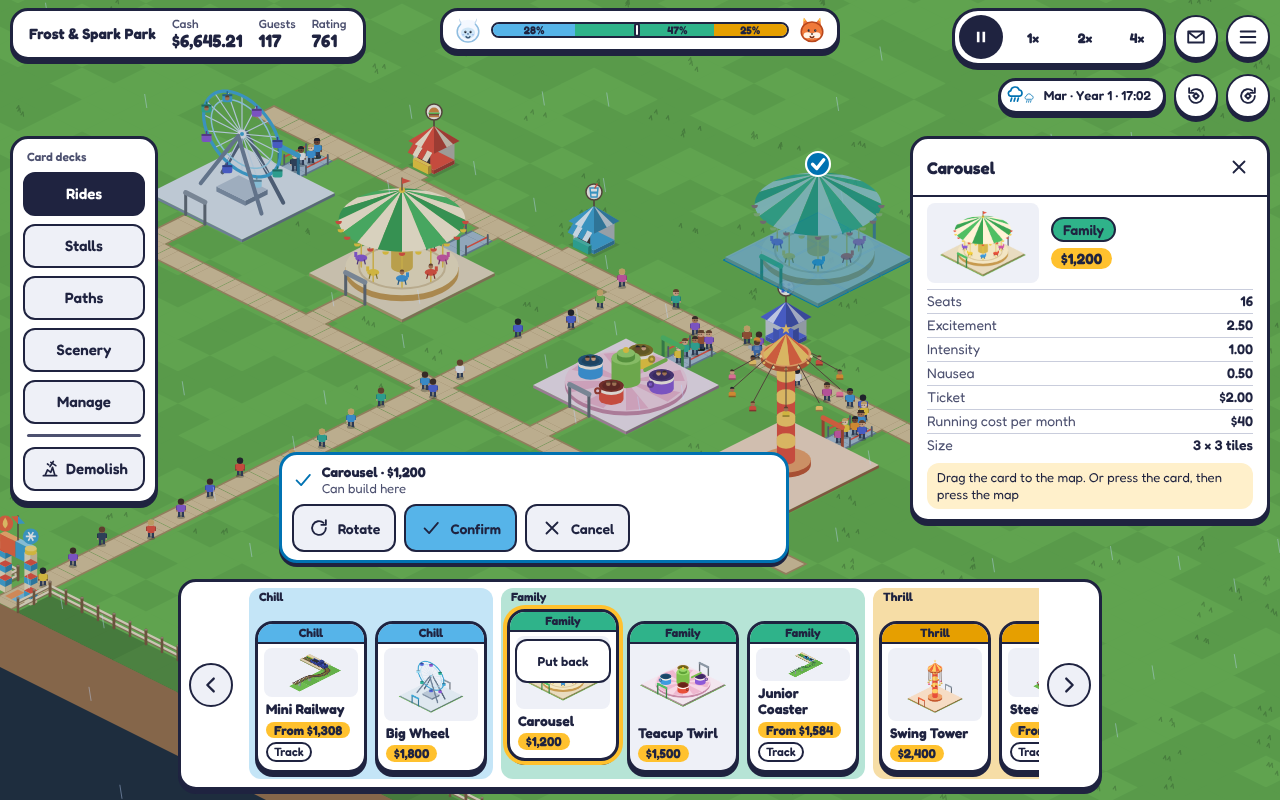
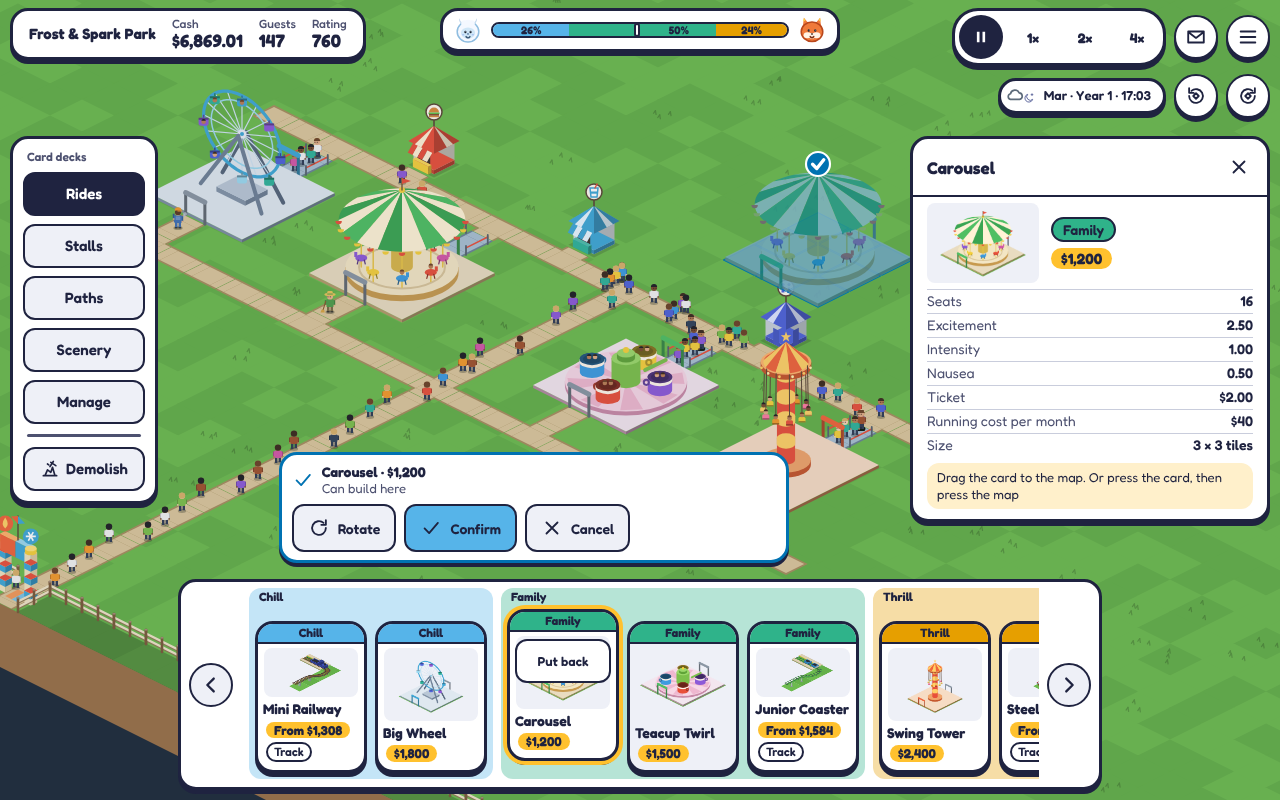
fix(ui): mood percentages grow with the text; desktop card names fit one line
The mood bar percentages and the desktop track follow calc(Npx * var(--ts, 1))
without the 125% cap; the label rule works in 100%-text px, so a number that
would not fit is hidden, never cut. The desktop ride and stall name has 5 px
side padding, so Junior Coaster fits one line, and the picture keeps at least
0.3 of the card height: a two-line name grows the deck instead of squashing
the picture.

Claude-Session: https://claude.ai/code/session_01Q5pHggx1eLkEH7W16KJFwP

diff --git a/src/styles/main.css b/src/styles/main.css
@@ -128,13 +128,13 @@ button { font: inherit; color: inherit; }
 .hud-name { font-weight: 700; font-size: calc(15px * var(--ts, 1)); max-width: calc(220px * var(--ts, 1)); overflow: hidden; text-overflow: ellipsis; white-space: nowrap; }
 .hud-mood { grid-area: mood; justify-self: stretch; min-width: 0; }
 /* Mood bar (Phase 7 §4.3): a 44 px plate (100% text) with Frost, three segments with a knot, and Spark. The lean text is
-   in the name and the title; the percentages show on the desktop only, at most 1.25 times their size. */
+   in the name and the title; the percentages show on the desktop only and grow with the text, as does the track. */
 .mood-bar { pointer-events: auto; display: flex; align-items: center; gap: 8px; width: 100%; min-height: 44px; padding: 2px 10px; color: var(--ink); background: var(--surface); border: var(--outline); border-radius: var(--radius-surface); box-shadow: var(--shadow); font: inherit; font-size: calc(12px * var(--ts, 1)); font-variant-numeric: tabular-nums; cursor: pointer; }
 .mood-bar:hover { background: var(--surface-3); }
 .mood-bar[aria-pressed='true'] { outline: 3px solid var(--ink); outline-offset: 1px; }
 .mood-face { display: inline-flex; flex: none; line-height: 0; }
-.mood-track { position: relative; display: flex; flex: 1 1 0; min-width: 0; height: calc(16px * min(var(--ts, 1), 1.25)); border-radius: 999px; overflow: hidden; background: var(--surface-2); border: var(--control-outline); }
-.mood-track .seg { display: flex; align-items: center; justify-content: center; flex-basis: 0; flex-grow: 0; min-width: 0; overflow: hidden; font-style: normal; font-weight: 700; font-size: calc(11px * min(var(--ts, 1), 1.25)); line-height: 1; color: var(--ink); white-space: nowrap; }
+.mood-track { position: relative; display: flex; flex: 1 1 0; min-width: 0; height: calc(16px * var(--ts, 1)); border-radius: 999px; overflow: hidden; background: var(--surface-2); border: var(--control-outline); }
+.mood-track .seg { display: flex; align-items: center; justify-content: center; flex-basis: 0; flex-grow: 0; min-width: 0; overflow: hidden; font-style: normal; font-weight: 700; font-size: calc(11px * var(--ts, 1)); line-height: 1; color: var(--ink); white-space: nowrap; }
 .mood-track .seg-num { display: inline-block; flex: none; }
 .mood-knot { position: absolute; top: -1px; bottom: -1px; width: 6px; margin-left: -3px; border-radius: 3px; background: var(--surface); border: 2px solid var(--ink); box-sizing: border-box; transition: left 0.4s ease; pointer-events: none; }
 .tc-rm .mood-knot { transition: none; }
@@ -379,16 +379,19 @@ button { font: inherit; color: inherit; }
 .content-card[data-zone='chill'] .card-band { background: var(--accent-chill); }
 .content-card[data-zone='family'] .card-band { background: var(--accent-family); }
 .content-card[data-zone='thrill'] .card-band { background: var(--accent-thrill); }
-/* The picture gives way to the text when the text needs more lines, down to a least height; below that the card grows. */
-.card-preview { flex: 1 1 0; min-height: calc(18px * var(--ts, 1)); margin: 0 6px; object-fit: contain; border-radius: 8px; background: var(--surface-2); }
-.content-card .card-name { flex: none; padding: 0 8px; font-weight: 700; font-size: calc(14px * var(--ts, 1)); line-height: 1.15; overflow-wrap: break-word; }
+/* The picture gives way to the text when the text needs more lines, down to a least height; below that the card grows.
+   On the desktop that least height is the picture of a card with a Track tag, so a two-line name never makes a thin strip
+   of the picture: the cards of the deck grow together instead. */
+.card-preview { flex: 1 1 0; min-height: calc(var(--content-h) * 0.3); margin: 0 6px; object-fit: contain; border-radius: 8px; background: var(--surface-2); }
+.content-card .card-name { flex: none; padding: 0 5px; font-weight: 700; font-size: calc(14px * var(--ts, 1)); line-height: 1.15; overflow-wrap: break-word; }
 .name-sep { font-size: 0; }
 .card-price-row { flex: none; display: flex; flex-wrap: wrap; align-items: center; gap: 4px; padding: 0 8px; }
 /* Cost chips (§4.9): gold with ink text. */
 .card-cost { font-weight: 700; font-size: calc(13px * var(--ts, 1)); line-height: 1.3; color: var(--ink); background: var(--gold); border-radius: 999px; padding: 0 8px; }
 .card-track { font-weight: 600; font-size: calc(12px * var(--ts, 1)); line-height: 1.3; color: var(--ink); border: var(--control-outline); border-radius: 999px; padding: 0 6px; }
 #ui[data-layout='bottom'] .card.content-card { gap: 3px; padding-bottom: 6px; }
-#ui[data-layout='bottom'] .content-card .card-name { padding: 0 6px; font-size: calc(13px * var(--ts, 1)); }
+#ui[data-layout='bottom'] .card-preview { min-height: calc(18px * var(--ts, 1)); }
+#ui[data-layout='bottom'] .content-card .card-name { font-size: calc(13px * var(--ts, 1)); }
 #ui[data-layout='bottom'] .card.tool-card { padding: 6px; }
 #ui[data-layout='bottom'] .card-band { font-size: calc(11px * var(--ts, 1)); padding: 1px 6px; }
 #ui[data-layout='bottom'] .card-price-row { padding: 0 6px; gap: 3px; }

diff --git a/tests/e2e/slim-mood-cards.spec.ts b/tests/e2e/slim-mood-cards.spec.ts
@@ -101,6 +101,36 @@ test('at 30/40/30 the segments are in proportion; the desktop numbers fit their 
   }
 });
 
+test('desktop 175% text: the percentages and the track grow with the text, and no number is cut', async ({ page }, info) => {
+  test.skip(isPhone(info), 'the phone shows no percentages');
+  await newPark(page);
+  await textScale(page, 175);
+  await mix304030(page);
+  // The plate grows with the font; the track is 16 px × 1.75 and the numbers 11 px × 1.75 (no cap at 125%).
+  await expect.poll(() => page.evaluate(() => (document.querySelector('.mood-track') as HTMLElement).getBoundingClientRect().height)).toBe(28);
+  const m = await page.evaluate(() => {
+    const track = document.querySelector('.mood-track') as HTMLElement;
+    const knot = (track.querySelector('.mood-knot') as HTMLElement).getBoundingClientRect();
+    return {
+      knot: { left: knot.left, right: knot.right },
+      segs: [...track.querySelectorAll<HTMLElement>('.seg')].map((s) => {
+        const r = s.getBoundingClientRect();
+        const num = s.querySelector('.seg-num') as HTMLElement;
+        const n = num.getBoundingClientRect();
+        return { left: r.left, right: r.right, text: num.textContent ?? '', size: getComputedStyle(s).fontSize, num: { left: n.left, right: n.right }, cut: num.scrollWidth > num.clientWidth };
+      }),
+    };
+  });
+  expect(m.segs.map((s) => s.size)).toEqual(['19.25px', '19.25px', '19.25px']);
+  for (const s of m.segs) {
+    if (s.text === '') continue;
+    expect(s.cut, `${s.text} cut`).toBe(false);
+    expect(s.num.left).toBeGreaterThanOrEqual(s.left - 0.5);
+    expect(s.num.right).toBeLessThanOrEqual(s.right + 0.5);
+    expect(s.num.right <= m.knot.left || s.num.left >= m.knot.right, `${s.text} under the knot`).toBe(true);
+  }
+});
+
 test('the mood bar name holds the three percentages and the lean text; the title holds the lean text', async ({ page }) => {
   await newPark(page);
   const bar = page.getByTestId('hud-balance');
@@ -123,6 +153,20 @@ test('cards are about 12% smaller and the hand is at least 12 px lower than at t
   // All ride cards of the deck keep one height.
   const heights = await page.evaluate(() => [...new Set([...document.querySelectorAll('.card.content-card')].map((c) => c.getBoundingClientRect().height))]);
   expect(heights).toHaveLength(1);
+  if (!phone) {
+    // Desktop: every name fits one line, and no picture is a thin strip (at least 0.3 × 152 px, the picture of a card
+    // whose cost and Track tag take two rows).
+    const parts = await page.evaluate(() =>
+      [...document.querySelectorAll<HTMLElement>('.card.content-card')].map((c) => {
+        const name = c.querySelector('.card-name') as HTMLElement;
+        return { name: name.textContent ?? '', lines: Math.round(name.getBoundingClientRect().height / parseFloat(getComputedStyle(name).lineHeight)), picture: (c.querySelector('.card-preview') as HTMLElement).getBoundingClientRect().height };
+      }),
+    );
+    for (const p of parts) {
+      expect(p.lines, `${p.name} lines`).toBe(1);
+      expect(p.picture, `${p.name} picture`).toBeGreaterThanOrEqual(45.6 - 0.5);
+    }
+  }
   await page.getByTestId('deck-paths').click();
   await expect(page.getByTestId('hand')).toHaveAttribute('data-deck', 'paths');
   const tool = await boxOf(page, '.card.tool-card');

diff --git a/src/ui/mood/moodBar.ts b/src/ui/mood/moodBar.ts
@@ -93,7 +93,9 @@ export function createMoodBar(ctx: UiContext): UiPart {
       const lean = text(leanTextId(p, shares.total));
       setAttr(el, 'aria-label', nameOf(shares, p, lean));
       setAttr(el, 'title', lean);
-      const width = track.clientWidth;
+      // The percentages grow with the text: the label rule works in 100% text px, so its room and the knot's grow too.
+      const ts = Number(ctx.root.dataset.textScale ?? 100) / 100 || 1;
+      const width = track.clientWidth / ts;
       segs.forEach((s, i) => {
         const v = p[s.key];
         const grow = String(v);
@@ -103,7 +105,7 @@ export function createMoodBar(ctx: UiContext): UiPart {
         const label = phone ? { show: false, padStart: 0, padEnd: 0 } : segmentLabel(p, s.key, width);
         setText(s.num, label.show ? text('ui.mood.percent', { n: v }) : '');
         // Centred in the room left by padStart / padEnd: a shift by half their difference, with no change of layout size.
-        const dx = label.show ? Math.round((label.padStart - label.padEnd) / 2) : 0;
+        const dx = label.show ? Math.round(((label.padStart - label.padEnd) * ts) / 2) : 0;
         const shift = dx !== 0 ? `translateX(${dx}px)` : '';
         if (shifts[i] !== shift) {
           shifts[i] = shift;

diff --git a/docs/superpowers/specs/thrills-and-chills/phase-7-frost-and-spark-interface.md b/docs/superpowers/specs/thrills-and-chills/phase-7-frost-and-spark-interface.md
@@ -94,7 +94,7 @@ Rules:
 The mood bar shows the guest mix, the same data as today (`temperamentShares` and `sharePercents` in `src/ui/format.ts`). It updates every 500 ms.
 
 - **Parts:** Frost head at the left end. Spark head at the right end. Between them, three segments: Chill, Family, Thrill. A knot marks the lean. There is no line of text below the bar: the lean text is in the accessible name and in the `title`.
-- **Size (after the owner's test play):** the plate is 44 px high at 100% text on both layouts (it may grow with large text; nothing is clipped). The faces are 30 px high. The track is 16 px high on the desktop and 14 px on the phone. On the desktop the bar is at most 400 px wide and centred in the top region.
+- **Size (after the owner's test play):** the plate is 44 px high at 100% text on both layouts (it may grow with large text; nothing is clipped). The faces are 30 px high. The track is 16 px high on the desktop (times the text scale) and 14 px on the phone. On the desktop the bar is at most 400 px wide and centred in the top region.
 - **Lean:** `L = thrill% − chill%`. The knot is at `50% + L / 2` of the bar width.
 - **Text:**
 
@@ -108,7 +108,7 @@ The mood bar shows the guest mix, the same data as today (`temperamentShares` an
 - **Faces:** Frost has the sad face while Chill is the under-served group of rule 3 in section 4.8. Spark has the sad face while Thrill is that group. In all other cases the face is happy. The face follows the rule, not the bubble: a closed tip or the Mascot tips setting does not change it. The art is the existing `mascotCanvas` portrait.
 - **Press:** the bar is a button. It turns the Temperament overlay on and off (`aria-pressed`). This replaces the Temperament toolbar button.
 - **Accessible name:** the existing text, "Thrill/Chill balance: {chill}% Chill, {family}% Family, {thrill}% Thrill", then the lean text. Test id `hud-balance`; the button also has `data-tool="temperament"`.
-- **Colour is not the only signal:** on the desktop each segment shows its percentage as text (`calc(11px * min(var(--ts, 1), 1.25))`, bold) when the segment is at least 44 px wide; the phone segments show no numbers. When the knot would cover the percentage, the text moves to the larger part of its segment beside the knot; it is hidden when that part is under 44 px (`segmentLabel`, `src/ui/mood/model.ts`). The accessible name (on both layouts) gives the same data.
+- **Colour is not the only signal:** on the desktop each segment shows its percentage as text (`calc(11px * var(--ts, 1))`, bold) when the segment is at least 44 px wide (times the text scale); the phone segments show no numbers. When the knot would cover the percentage, the text moves to the larger part of its segment beside the knot; it is hidden when that part is under 44 px times the text scale (`segmentLabel`, `src/ui/mood/model.ts`). The accessible name (on both layouts) gives the same data.
 - **Reduced motion:** the knot moves with no transition.
 
 ### 4.4 Decks
@@ -159,7 +159,7 @@ The hand is a group named "{deck} cards". It shows only unlocked content, as the
 
 The accessible name of a card is its visible text, as Phase 6 §4.7 requires.
 
-**Size (after the owner's test play, about 12% smaller):** ride and stall cards 112 × 152 CSS px on desktop, 92 × 124 on phone; tool cards (`--card-w`, `--card-h`) 92 × 110 on desktop, 82 × 96 on phone; multiplied by the text scale up to 150%. The picture gives way to the text down to 18 px (times the text scale); a card whose text needs more room at large text grows, and all cards of a deck keep one height. Font sizes do not change.
+**Size (after the owner's test play, about 12% smaller):** ride and stall cards 112 × 152 CSS px on desktop, 92 × 124 on phone; tool cards (`--card-w`, `--card-h`) 92 × 110 on desktop, 82 × 96 on phone; multiplied by the text scale up to 150%. The picture gives way to the text down to 0.3 of the card height on desktop (the picture of a card whose cost and Track tag take two rows) and 18 px on phone (times the text scale); the desktop name has 5 px side padding, so every name fits one line at 100% text; a card whose text needs more room at large text grows, and all cards of a deck keep one height. Font sizes do not change.
 
 **Order.**
 - Rides deck: zone (Chill, Family, Thrill), then build cost from low to high, then name. A track ride uses its station cost (`stationCost` with `minStationTiles`), the cost that its picker card shows today.
